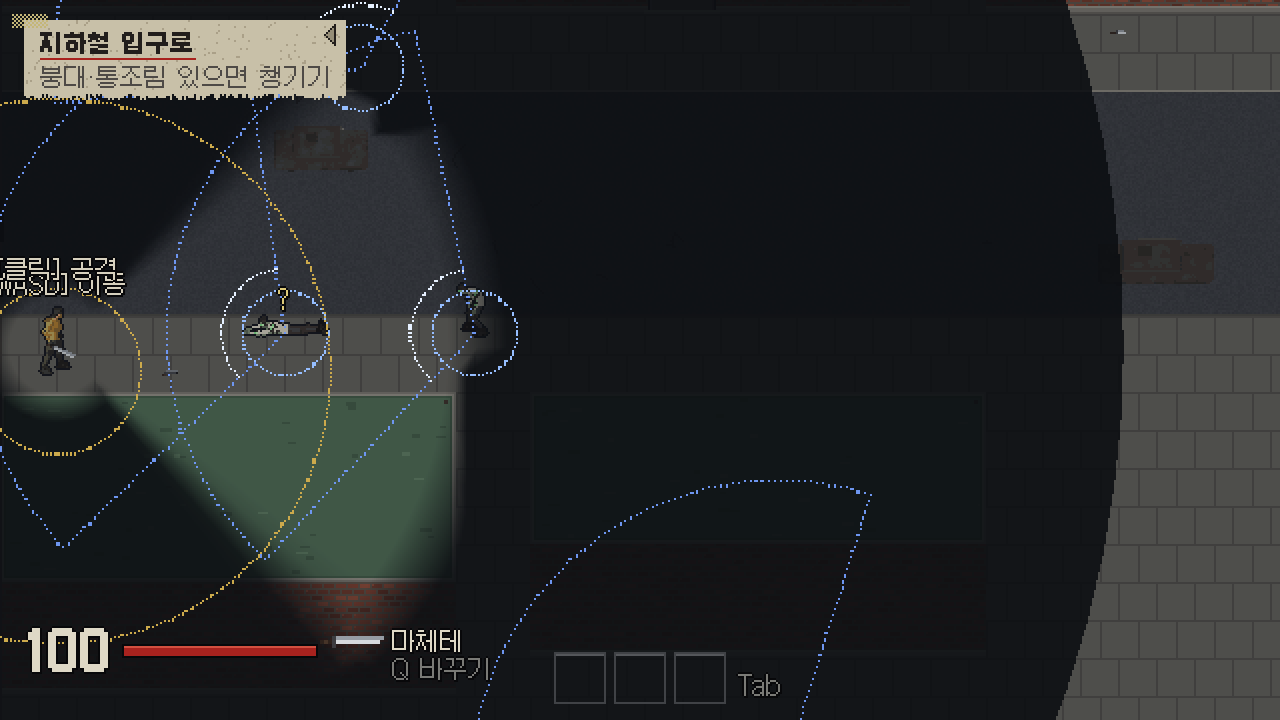
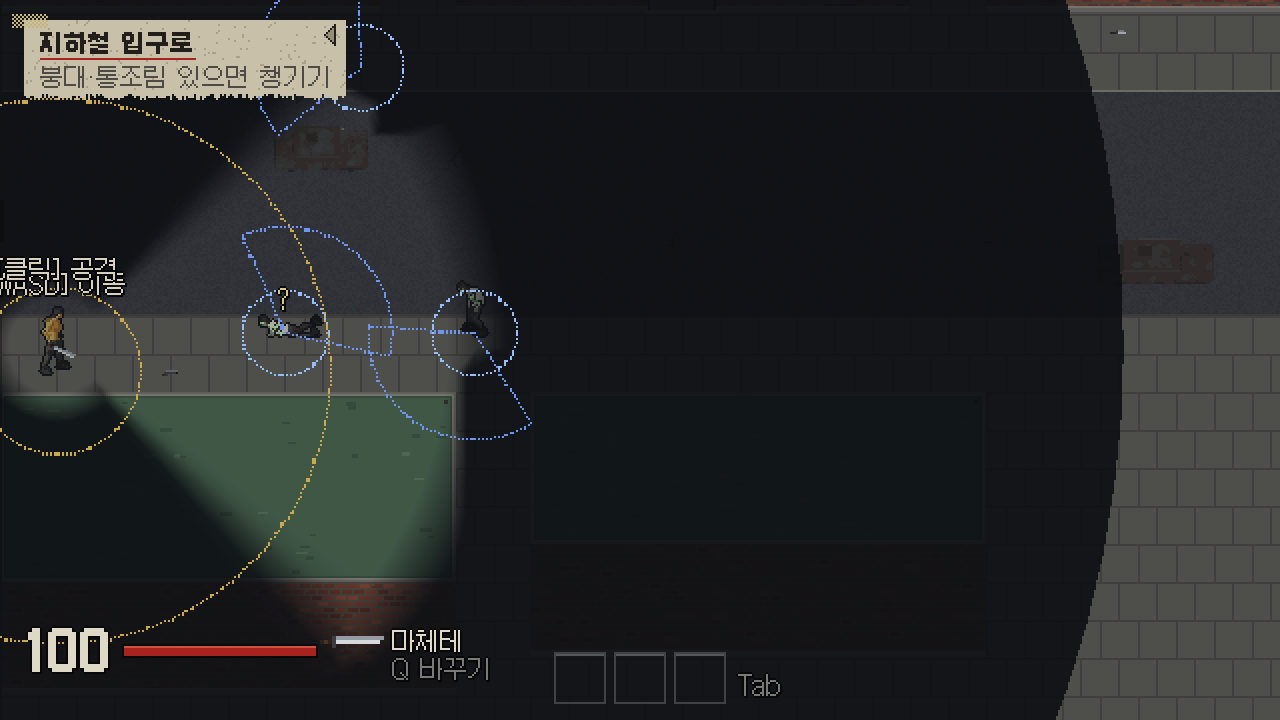
발견을 확률 대신 정해진 거리로
- 시야 안, 벽 없음, 걷기 등 160 안 / 가만히·살금 90 안이면 바로 "!"
- 그보다 멀면 들키지 않음, 이미 발견하면 260까지 계속 봄
- F5 부채꼴이 지금 발견 거리를 그대로 표시

Changed region(s): [[0.1875, 0.4278, 0.25, 0.4889], [0.3438, 0.3972, 0.375, 0.4278], [0.1875, 0.3667, 0.2188, 0.3972]]

diff --git a/src/infected.py b/src/infected.py
@@ -20,10 +20,11 @@ NOISE_STEP = 70                 # px the hero's footsteps carry
 NOISE_ROLL = 140
 NOISE_SLASH = 230
 MEMORY = 8.0                    # s it keeps going to the last place it saw or heard the hero (was 3)
-SPOT_RATE = 2.2                 # chance per second of spotting a hero in full view, right in front
-SPOT_SURE = 54                  # px: this close it spots at once
-SPOT_IDLE = 0.6                 # an idle (unalert) infected spots less...
-SPOT_ALERT = 1.5                # ...one already searching spots more
+# Spotting (2026-11-18 "특정 거리에서 !가 뜨게, 순간 확률은 헷갈림"; was a chance every moment):
+# in its sight (the cone or NOTICE_NEAR, nothing in between) and this close, it spots the hero at
+# once ("!"). Farther, never - it only keeps one it has already spotted in sight up to SIGHT_RANGE.
+SPOT_DIST = 160                 # px while the hero walks, rolls or swings
+SPOT_DIST_QUIET = 90            # px while he stands still or sneaks (Ctrl)
 FRONT_SOUND = 0.6               # radians: a sound this close to where it faces needs no turn
 WANDER_TURN = (2.0, 5.0)        # s between idle head turns
 SPOTTED_TIME = 0.8              # s the "!" stays after it spots the hero
@@ -65,6 +66,12 @@ CRAWL_REACH = ZOMBIE_REACH - 6  # px: close enough to bite at the ankles
 # hero it breaks into a run for a moment - faster than the hero walks - then settles to its pace.
 RUSH_TIME = 1.4                 # s of running after the "!"
 RUSH_SPEED = 1.8                # times its own pace (a normal one: 126 px/s, the hero walks 110)
+
+
+def spot_distance(hero):
+    """How close the hero must be, in an infected's sight, to be spotted: nearer when he is quiet."""
+    quiet = (hero.sneaking or not hero.moving) and hero.roll <= 0 and not hero.slash
+    return SPOT_DIST_QUIET if quiet else SPOT_DIST
 
 
 class Zombie:
@@ -163,6 +170,7 @@ class Zombie:
         return False
 
     def sees(self, hero):
+        """The hero is in its sight: within SIGHT_RANGE in its cone (or NOTICE_NEAR all round), nothing between."""
         dx, dy = hero.x - self.x, hero.y - self.y
         dist = hypot(dx, dy)
         if hero.dead or dist > SIGHT_RANGE:
@@ -231,10 +239,7 @@ class Zombie:
             if self.state in ("idle", "search") and dist < 300:          # the old rule
                 self.state = "chase"
         elif self.state in ("idle", "alert", "search") and self.sees(hero):
-            # In view but not yet spotted: a chance each moment (Zomboid's spot chance).
-            rate = SPOT_RATE * max(0.0, 1 - dist / SIGHT_RANGE) * hero.noticeability()
-            rate *= SPOT_IDLE if self.state == "idle" else SPOT_ALERT
-            if dist <= SPOT_SURE or random.random() < rate * dt:
+            if dist <= spot_distance(hero):               # close enough in its sight: "!"
                 self.state, self.seen_time = "chase", 0.0
                 self.target, self.memory = (hero.x, hero.y), MEMORY
         elif self.state in ("chase", "poised"):

diff --git a/src/dev_tools.py b/src/dev_tools.py
@@ -286,7 +286,7 @@ def draw_boxes(game, cx, cy):
                (255, 60, 50) if striking else (150, 60, 56), 1 if striking else 3)                     # its claw (bright when it comes)
 
 
-SIGHT, NEAR, SURE = (110, 150, 240), (150, 190, 255), (230, 240, 255)
+SIGHT, NEAR = (110, 150, 240), (150, 190, 255)
 NOISE = (240, 200, 90)
 NOISE_SHOW = 0.8                     # s a noise ring stays
 
@@ -303,17 +303,17 @@ def age_noises(game, dt):
 
 
 def draw_senses(game, cx, cy):
-    """F5. Sight: an infected spots the hero only inside its cone (SIGHT_RANGE, +-SIGHT_HALF) or the
-    all-round ring (NOTICE_NEAR), with a clear line; inside the bright ring (SPOT_SURE) at once,
-    farther out by chance, less the farther. Hearing: a noise reaches every infected inside its ring."""
+    """F5. Sight: the cone out to where the hero is spotted at once ("!") right now - SPOT_DIST
+    while he moves, SPOT_DIST_QUIET while still or sneaking - plus the all-round ring (NOTICE_NEAR);
+    a wall in between hides him. Hearing: a noise reaches every infected inside its ring."""
     if not game.dev.senses:
         return
+    spot = infected.spot_distance(game.hero)
     for z in game.zombies:
         if not z.alive:
             continue
         zx, zy = z.x - cx, z.y - cy
-        _wedge(zx, zy, infected.SIGHT_RANGE, z.heading, infected.SIGHT_HALF, SIGHT, 3)
-        _arc(zx, zy, infected.SPOT_SURE, z.heading - infected.SIGHT_HALF, z.heading + infected.SIGHT_HALF, SURE, 2)
+        _wedge(zx, zy, spot, z.heading, infected.SIGHT_HALF, SIGHT, 2)
         _arc(zx, zy, infected.NOTICE_NEAR, -3.15, 3.15, NEAR, 2)
     for x, y, radius, age in game.dev.noises:                     # noises made: a ring each
         fade = 1 - age / NOISE_SHOW

diff --git a/src/hero.py b/src/hero.py
@@ -59,14 +59,6 @@ class Hero:
     def invulnerable(self):
         return self.roll > 0 or self.hurt > 0
 
-    def noticeability(self):
-        """How easily an infected that has the hero in view spots him (Zomboid: sneaking lowers it)."""
-        if self.roll > 0 or self.slash:
-            return 1.6
-        if not self.moving:
-            return 0.35
-        return 0.5 if self.sneaking else 1.0
-
     def take_blow(self):
         self.slowed = min(MAX_SLOW, self.slowed + HIT_SLOW)
         self.reeling = HURT_REACT

diff --git a/PRD.md b/PRD.md
@@ -19,9 +19,13 @@
 
 > **기획 고정 문서:** [DESIGN_LOCK.md](docs/planning/DESIGN_LOCK.md)(2026-11-13)가 기둥 3개·확정·정할 것·보류함·바꾸는 규칙을 담는다. 이 PRD와 어긋나면 고정 문서가 우선이고 PRD를 고친다.
 
+- **v8.5 (2026-11-18) — 발견은 정해진 거리에서 바로.** 사용자 "특정 거리에서 !가 뜨게 하죠, 거리에 따라 순간 확률로 하면 헷갈릴 것 같습니다" (v5.4의 확률 발견을 바꿈).
+  - 피폭체 시야(앞 좌우 63°, 또는 사방 36 안)에 들어오고 사이에 벽이 없을 때, **걷기·구르기·휘두르기 중엔 160 안, 가만히·살금(Ctrl) 중엔 90 안**이면 그 순간 "!". 그보다 멀면 들키지 않는다(소리로는 "?").
+  - 이미 발견한 주인공은 260까지 계속 본다(쫓는 중 놓치는 거리는 그대로).
+  - F5의 파란 부채꼴이 지금 주인공 상태의 발견 거리(160 또는 90)를 그대로 보여 준다. 점검: 걸을 때 155 발견·165 못 봄, 가만히 85 발견·95 못 봄, 등 돌린 100 못 봄·30 발견. 화면 `docs/planning/dev_senses.png`.
 - **v8.4 (2026-11-18) — 개발 도구: 디버그 박스(F1), 개발 설정창(F4).** 사용자 "디버그용 박스가 필요함", "개발용 설정창, 테스트를 할 수 있게".
   - **F1 공격 범위·히트박스:** 사용자 "숫자는 빼고 공격 범위, 히트박스 그러한 것만". 숫자·시야·줍기 범위는 빼고 판정에 쓰는 것만: 부딪히는 벽·차(주황), 주인공 발밑의 맞는 점(흰 +), 커서 쪽 공격 부채꼴(노랑, 판정과 같은 폭; 총은 총알이 지나가는 띠), 피폭체 몸 부위 박스(머리 빨강·몸통 노랑·다리 파랑, 기어가는 것은 몸 전체 주황 "밟기"), 피폭체 할퀴기 부채꼴(평소 흐린 점선, 예고·공격 중엔 진한 빨강). 어둠 속 피폭체도 보인다. 선은 캔버스 픽셀 단위로 찍어 끊기지 않게.
-  - **F5 시야·소리 범위:** 사용자 "어디까지 들어오면 ! 뜨는지, ?는 어디까지 소리를 측정하는지". 피폭체마다 시야 부채꼴(260, 좌우 63°, 파랑 점선) 안에서 가려지지 않으면 "!"가 날 수 있다: 54 안(밝은 호)이면 바로, 그보다 멀면 확률(가까울수록, 움직이거나 구르거나 휘두르면 높고 가만히·살금이면 낮음). 36 안(작은 원)은 등 뒤도 본다. 주인공이 내는 소리는 그 소리가 닿는 만큼 노란 원으로 0.8초: 걷기 70, 살금 28, 줍기 100, 구르기 140, 근접 공격 230, 총 900. 원 안의 가만히 있던 피폭체가 "?".
+  - **F5 시야·소리 범위:** 사용자 "어디까지 들어오면 ! 뜨는지, ?는 어디까지 소리를 측정하는지". 피폭체마다 발견 부채꼴(파랑 점선, v8.5부터 정해진 거리)과 등 뒤도 보는 36 원. 주인공이 내는 소리는 그 소리가 닿는 만큼 노란 원으로 0.8초: 걷기 70, 살금 28, 줍기 100, 구르기 140, 근접 공격 230, 총 900. 원 안의 가만히 있던 피폭체가 "?".
   - **F4 개발 설정창(오른쪽 위):** ↑↓로 고르고 ←→로 바꾸고 Enter로 실행, 또는 클릭(왼쪽 = 올림·실행, 오른쪽 = 내림). 게임은 뒤에서 계속 돈다.
   - 항목: 디버그 박스, 무적, 게임 속도(x0.25~x2), 피폭체 멈춤, 새 피폭체 안 옴, 피폭체 감각(F2), 사실적 연출(F3), 주인공 속도, 피폭체 속도, 출혈 확률, 맞을 때 체력, 체력 채우기·출혈 멈춤, 붕대 +3, 통조림 +3, 탄약 채우기, 피폭체 소환(커서 자리), 기어가는 피폭체 소환, 피폭체 모두 없애기, 다시 시작.
   - 설정은 R로 다시 해도 남는다. 항목은 `src/dev_tools.py`의 `ROWS`에 한 줄씩. 화면 `docs/planning/dev_tools.png`.

diff --git a/docs/DEVLOG.md b/docs/DEVLOG.md
@@ -315,3 +315,4 @@
 - **개발 도구(2026-11-18):** 새 `src/dev_tools.py` — `Dev`(open, boxes, god, speed, freeze, no_spawn), `ROWS`(이름, 값 보이기, 바꾸기), `key`(F1·F4·화살표·Enter), `click`(패널을 누르면 그 클릭의 뗌은 공격이 아님: `ate_press`), `draw_panel`, `draw_boxes`. `play`: `self.dev`, update 처음에 `real_dt *= dev.speed`, 무적이면 맞음·출혈 무시, 멈춤이면 피폭체 update 건너뜀, 새 피폭체 막기, F2·F3을 `toggle_senses`/`toggle_real`로 뺌(설정창도 씀). `main`: 패널 클릭 먼저. 점검 check_dev: 소환 1, 속도 110→120, 출혈 40→30%, 패널 클릭 무적 켬·패널 밖 클릭 무시, 무적으로 5초 붙어 있어도 체력 100, 멈춤이면 0 이동. 예전 점검 통과.
 - **F1을 판정만 보이게(2026-11-18):** 사용자 "숫자는 빼고 공격 범위, 히트박스". `draw_boxes`에서 글자·시야 부채꼴·시야 막는 것·출구·줍기 범위 제거. 주인공 공격은 `draw_aim`과 같은 폭의 부채꼴(`cells * CELL_WORLD / 2 / range`), 총은 `shot.width` 띠. 피폭체는 `weapons.PARTS`·`PART_HALF_WIDTH` 부위 박스와 `reach + 8`, `±ZOMBIE_ARC` 할퀴기 부채꼴(infected.py 판정과 같음). 1 월드 단위 선이 캔버스 픽셀 사이에 떨어져 끊겨서 `_dot`/`_line`/`_arc`로 픽셀 단위로 찍음. 발견: 서 있는 피폭체의 머리 박스(40~60)가 그림의 머리보다 위로 나간다.
 - **F5 시야·소리(2026-11-18):** `dev_tools.draw_senses`: `SIGHT_RANGE`/`SIGHT_HALF` 부채꼴, `SPOT_SURE` 호, `NOTICE_NEAR` 원(infected.sees·update와 같은 값). `play.make_noise`가 `dev_tools.heard`로 소리를 기록, `age_noises`가 0.8초 뒤 지움. 설정창에 "시야·소리 범위 (F5)" 줄. 점검 check_f5: 230·70 원 그려지고 1초 뒤 0개, 230 원 안 피폭체 "?".
+- **발견을 정해진 거리로(2026-11-18):** `infected.py`의 `SPOT_RATE/SPOT_SURE/SPOT_IDLE/SPOT_ALERT` 대신 `SPOT_DIST 160`, `SPOT_DIST_QUIET 90`, `spot_distance(hero)`(살금·가만히이면서 구르기·휘두르기가 아닐 때 90). `update`는 `sees(hero) and dist <= spot_distance(hero)`면 바로 chase. `hero.noticeability` 삭제(안 쓰임). F5 부채꼴 = `spot_distance`. 점검 check_spot 경계 통과, check_rush는 220이 이제 발견 밖이라 150으로 옮겨 발견→달려옴→공격 확인, senses·stage1·gap 통과.
